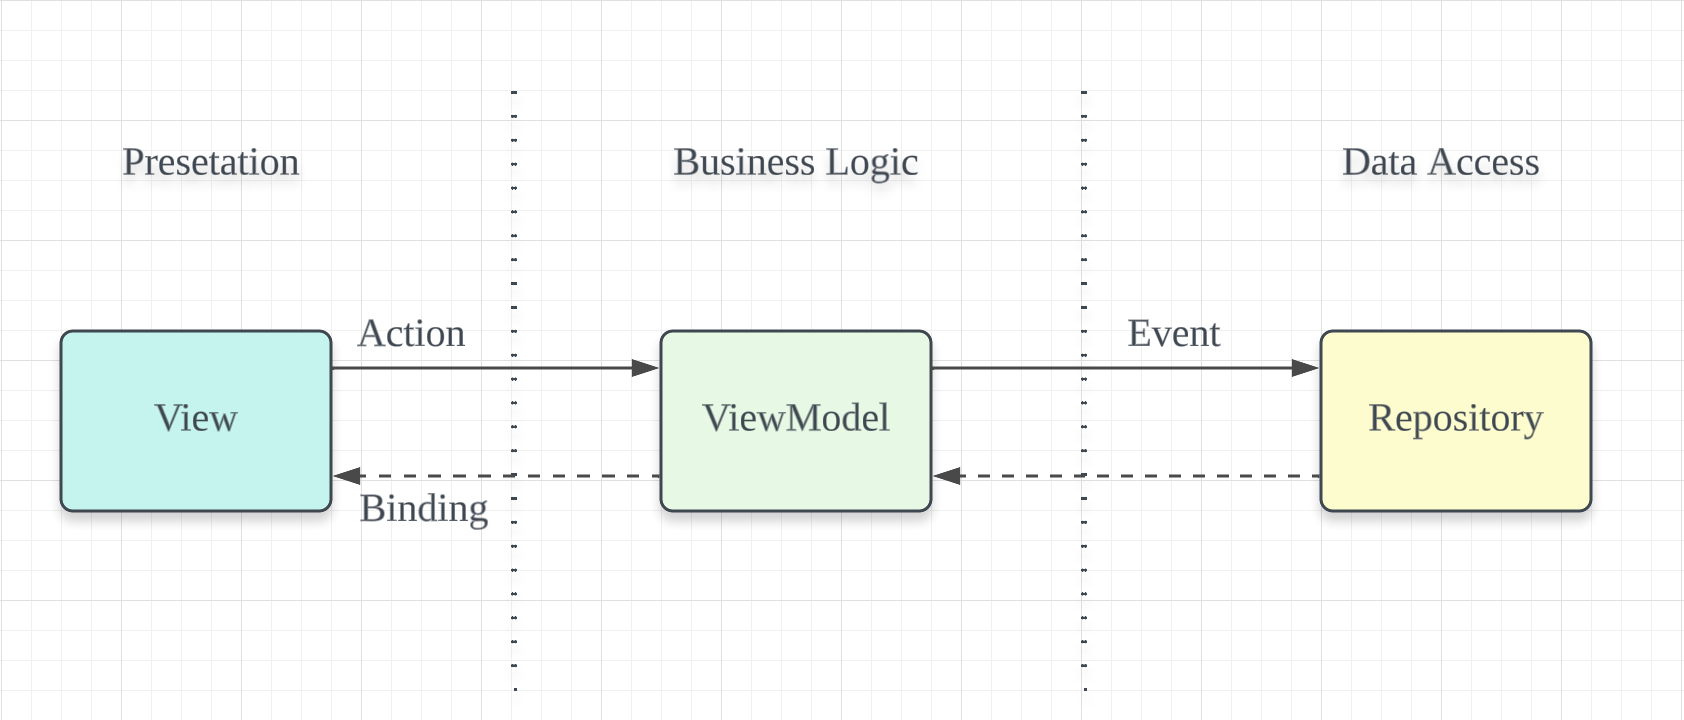
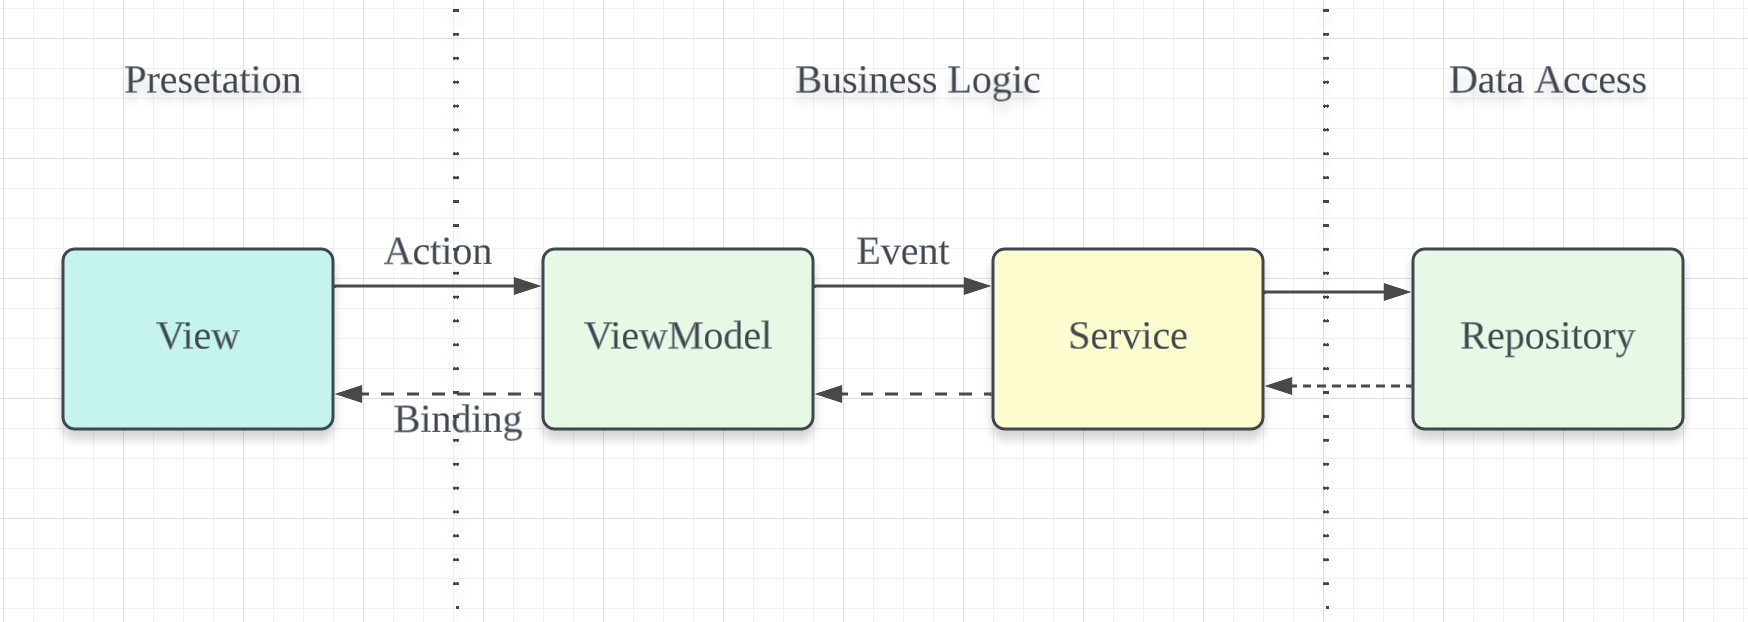
feat(doc): update README

diff --git a/README.md b/README.md
@@ -7,4 +7,4 @@
 
 ![architecture](images/arc.png)
 
-For example, `PhotoListView` <=> `PhotoListViewModel` <=> `SearchPhotoRepository`.
+For example, `PhotoListView` <=> `PhotoListViewModel` <=> `PhotoListService` <=> `PhotoListWebRepository`.
